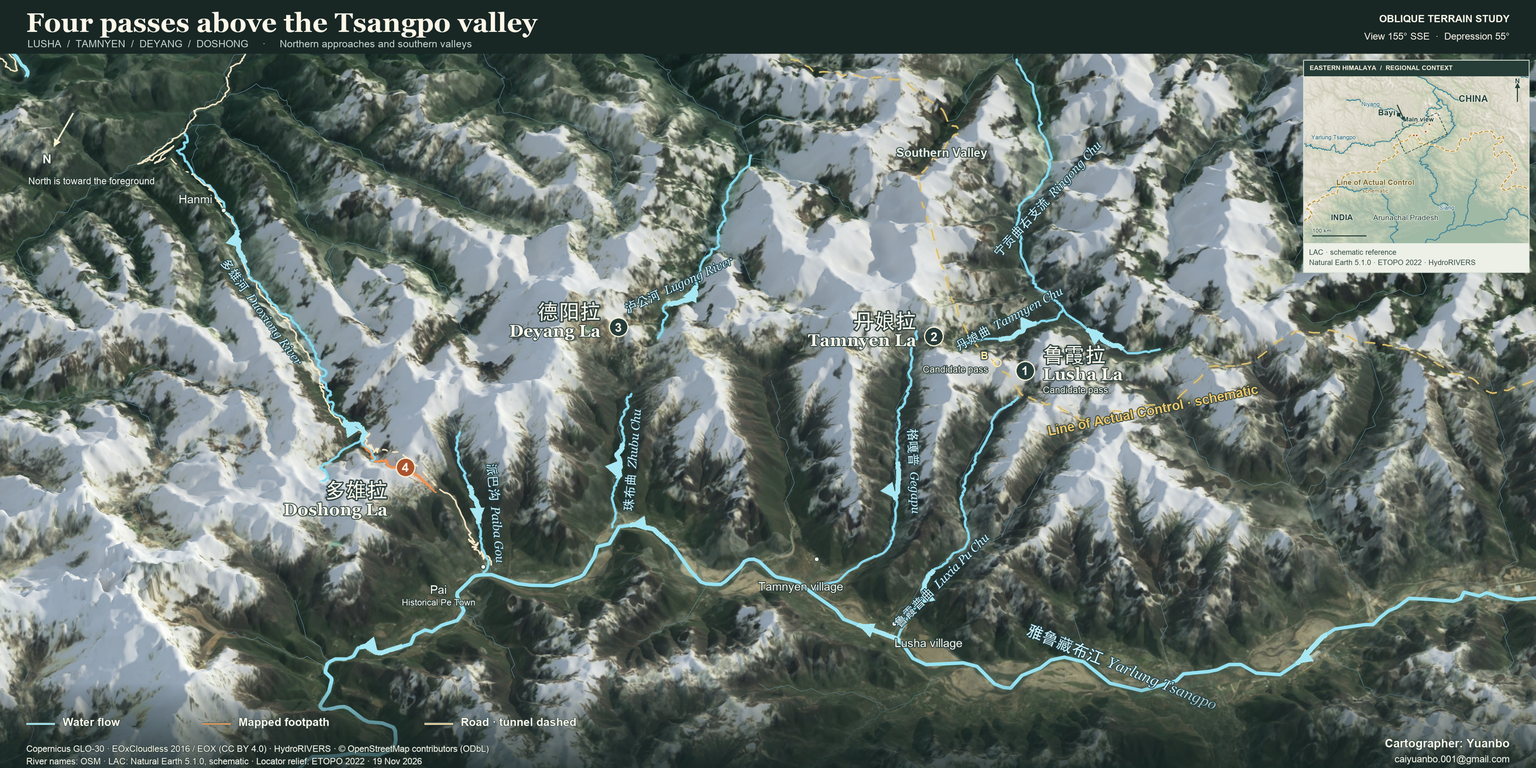
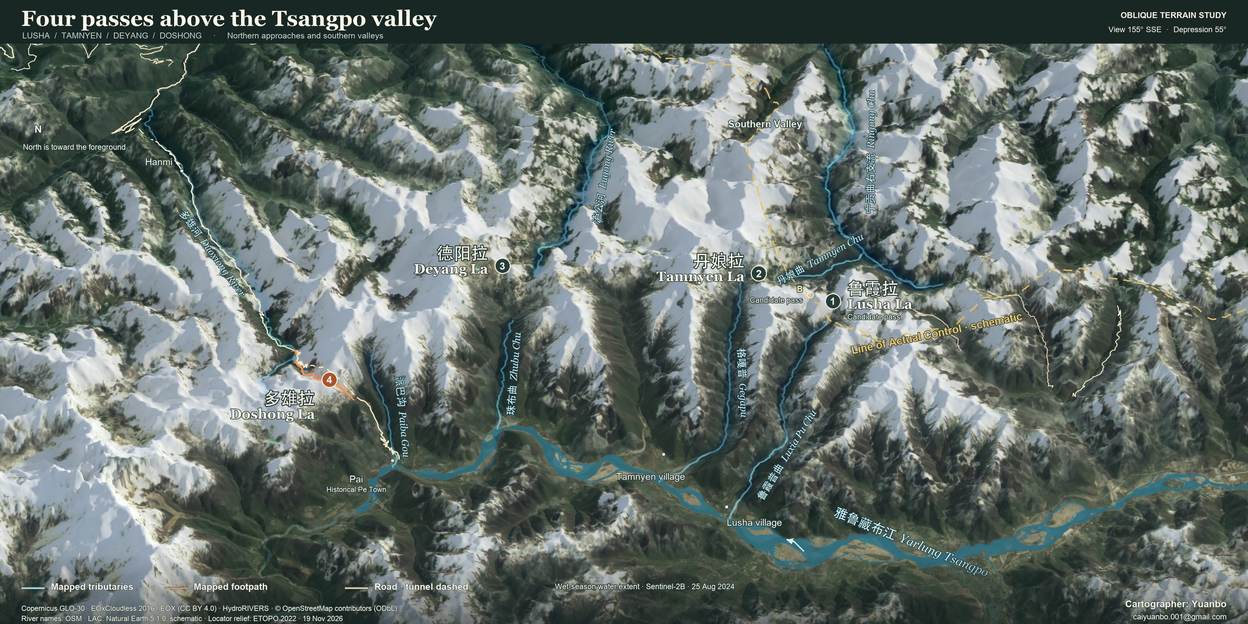
Show full terrain maps and open final locator editions in the lightbox

diff --git a/across-the-divide.html b/across-the-divide.html
@@ -3,7 +3,7 @@
 <body class="divide"><a class="skip" href="#main">Skip to maps</a>
 <header class="site-header"><a class="wordmark" href="index.html">Zhiting Cai <span>Cartography &amp; historical GIS</span></a><nav aria-label="Project"><a href="index.html">All projects</a><a href="corridors.html">Corridors before Borders</a></nav></header>
 <main id="main">
-<section class="divide-hero"><div class="hero-copy"><p class="eyebrow">Terrain cartography · Eastern Himalaya</p><h1>Across the <em>Divide</em></h1><p class="hero-premise">Cross a mountain pass. Enter another river basin. Find more than you came looking for.</p><a class="section-link" href="#yongyap">Read the crossing</a></div><figure><a href="assets/divide/yongyap-la-full.png?v=20261119-maptext" data-lightbox data-caption="Yongyap La: A Pass between the Dibang and Tsangpo Basins. Route digitized from the georeferenced 1913 route map (published 1914); local stream colours distinguish drainage toward the Dibang and the Tsangpo. Relief: 1.24×."><img src="assets/divide/yongyap-la-hero.jpg?v=20261119-maptext" width="2240" height="1552" fetchpriority="high" alt="Yongyap La in an oblique satellite-textured terrain view, with an orange historical route crossing a ridge between turquoise Dibang tributaries and blue Tsangpo tributaries."></a><figcaption>Yongyap La · Dibang–Tsangpo crossing · 26 May 1913<br>Open the complete map · Cartography: Yuanbo · EOX / Copernicus Sentinel 2016, CC BY 4.0</figcaption></figure></section>
+<section class="divide-hero"><div class="hero-copy"><p class="eyebrow">Terrain cartography · Eastern Himalaya</p><h1>Across the <em>Divide</em></h1><p class="hero-premise">Cross a mountain pass. Enter another river basin. Find more than you came looking for.</p><a class="section-link" href="#yongyap">Read the crossing</a></div><figure><a href="assets/divide/yongyap-la-full.png?v=20261121-final" data-lightbox data-caption="Yongyap La: A Pass between the Dibang and Tsangpo Basins. Route digitized from the georeferenced 1913 route map (published 1914); local stream colours distinguish drainage toward the Dibang and the Tsangpo. Relief: 1.24×."><img src="assets/divide/yongyap-la.jpg?v=20261121-final" width="2600" height="2112" fetchpriority="high" alt="Yongyap La in an oblique satellite-textured terrain view, with an orange historical route crossing a ridge between turquoise Dibang tributaries and blue Tsangpo tributaries."></a><figcaption>Yongyap La · Dibang–Tsangpo crossing · 26 May 1913<br>Open the complete map · Cartography: Yuanbo · EOX / Copernicus Sentinel 2016, CC BY 4.0</figcaption></figure></section>
 <nav class="divide-index" aria-label="On this page"><details open><summary>On this page</summary><ol><li><a href="#monsoonal-asia">Monsoonal Asia</a></li><li><a href="#yongyap">Routes &amp; Passes</a></li><li><a href="#serendipity">Travel Accounts</a></li><li><a href="#four-passes">Map 2: Sino–Indian Frontier</a></li><li><a href="#craft">Cartographic Practice</a></li></ol></details></nav>
 <section id="monsoonal-asia" class="reading section-space argument-section"><p class="eyebrow">Monsoonal Asia / ecological thresholds</p><h2>Monsoonal Asia <br>reaches into the mountains.</h2><p class="argument-lead">I approach the southeastern Himalaya as a mountainous part of monsoonal Asia, where high elevation and seasonal snow coexist with a strong monsoon influence.</p><p>Moisture from the Indian Ocean, including the Bay of Bengal, reaches the region through the summer monsoon. Mountain relief intercepts and redistributes this moisture, while deep valleys channel humid air into the Tibetan Plateau. Research at Mêdog documents this pathway through the Yarlung Tsangpo Grand Canyon. Alongside altitude, slope exposure and seasonal snow, the uneven distribution of moisture helps produce pronounced ecological contrasts across forested slopes, alpine terrain and drier inner valleys. <a class="source-inline" href="#lit-monsoon">Li et al., 2022</a>.</p><p>A pass gives travellers a route through these environmental differences. By connecting valleys, passes allow ecological gradients to be experienced through movement: changes in vegetation and climate become perceptible along a journey. These transitions need not coincide precisely with a saddle or watershed.</p><div class="ward-evidence"><p class="evidence-heading">Kingdon Ward / Tulung La, 1935</p><blockquote><p>“After crossing the Tulung La, I left the forest region behind me and entered upon the dry treeless plateau.”</p><cite>F. Kingdon Ward, “Botanical and Geographical Explorations in Tibet, 1935,” published 1936, p. 386. <a href="#lit-ward1936">Source details</a>.</cite></blockquote><p>Near Jamiri, Ward also described an abrupt transition from pine and oak woodland to Assam rain forest without a visible barrier (p. 406). His observations locate ecological change both beyond a pass and elsewhere along a route. I read these passages as accounts of environmental differences encountered through travel, while distinguishing his 1935 itinerary from Bailey’s crossing of Yongyap La.</p></div></section>
 <section id="yongyap" class="reading section-space"><p class="eyebrow">Yongyap La / a crossing, then another climb</p><h2>Beyond the ridge,<br>the journey changes.</h2><p>While reading historical maps, I repeatedly encountered toponyms ending in <i>chu</i>, the Tibetan word for water or river. I use these names as starting points for tracing the valleys and routes of the eastern Himalaya. <a class="source-inline" href="#lit-chu">Tibetan geographical vocabulary</a>.</p><p class="hero-deck">I use elevation, satellite imagery and historical itineraries to make these transitions visible: a ridge separates the waters, while a pass connects the journeys.</p><blockquote><p>“here we crossed from the basin of the Dibang into that of the Dihang or Tsangpo”</p><cite>F. M. Bailey, “Exploration on the Tsangpo or Upper Brahmaputra,” <i>The Geographical Journal</i> 44(4), 1914, p. 343. <a href="#sources">Source details</a></cite></blockquote>
@@ -15,8 +15,8 @@
 <p>Bailey and Morshead decided to advance with the retreating snowline and wait below the pass for an opportunity. A lama meditating in a cave above Mipi, whose recovery from illness had been aided by the expedition’s doctor, offered to arrange fine weather for the intended crossing and for Pungpung La four days later. Morshead left Mipi on 15 May 1913; Bailey followed on 16 May.</p>
 <p class="account-label">Date check: 7 May marks the first day of the fourth Tibetan month in the calendar discussion on pp. 46–47; it is not the departure date. The distinction between a river connection and a traversable route is also explicit in Bailey’s 1914 account, p. 343. <a href="https://archive.org/details/no-passport-to-tibet/page/n47/mode/2up">Read the book scan</a>.</p></div></details></section>
 <section id="serendipity" class="reading section-space serendipity"><p class="eyebrow">Serendipity / finding more along the way</p><h2>More than we came<br>looking for.</h2><p>Serendipity is the perspective I bring to these maps: setting out to trace a crossing, then noticing an unexpected clearing, a flower, or a connection between places. A pass opens a route into another drainage system; the journey can disclose more than its original purpose. Bailey’s account offers two distinct moments through which to consider that experience.</p><div class="encounter-grid encounter-quotes"><article><p class="encounter-place">Yonggyap Da · 28 May 1913</p><blockquote><p>“Later in the year it must be a very beautiful spot.”</p><cite>Bailey, 1957, p. 60. <a href="https://archive.org/details/no-passport-to-tibet/page/n62/mode/1up">Read the scanned page</a>.</cite></blockquote></article><article><p class="encounter-place">Lunang (鲁朗) · 10 July 1913</p><blockquote><p>“Each day brought new discoveries, new sights, new marvels.”</p><cite>Bailey, 1957, p. 113. <a href="https://archive.org/details/no-passport-to-tibet/page/n117/mode/1up">Read the scanned page</a>.</cite></blockquote></article></div><details class="encounter-context"><summary>Read the travel accounts · Yonggyap Da and Lunang</summary><div><div class="encounter-grid"><article><p class="encounter-place">Beyond Yongyap La</p><h3>Yonggyap Da camp</h3><p class="encounter-date">28 May 1913 · <i>No Passport to Tibet</i>, p. 60</p><p>Two days after the crossing, Bailey describes a flat clearing at the confluence of the rivers he calls the Yonggyap and Rirung. He collected iris and other seed, noticed the remains of flowers, and imagined the place later in the season.</p><p class="encounter-note">This is an encounter in the valley beyond the pass, rather than a view from its summit. The description conveys an attentive pause within a difficult journey.</p></article><article><p class="encounter-place">A later episode near Lunang (鲁朗)</p><h3>The blue poppies</h3><p class="encounter-date">10 July 1913 · recalled in 1957, pp. 112–114</p><p>On the approach to Lunang, Bailey noticed blue poppies among alpine flowers. His diary recorded them briefly. Looking back on their later fame, he reflected on how much the expedition had encountered along the way:</p><p class="encounter-note">This episode belongs to Lunang, later in the expedition. It is not an observation made while crossing Yongyap La. The reflection was written retrospectively, rather than as an expression of his feelings at the moment of seeing the flower.</p></article></div><p class="interpretation-note">I use <i>serendipity</i> to describe this openness to finding more than one set out to find. It is my interpretation of the journey and a way of looking at the terrain, rather than a term Bailey uses in these passages or a claim that every pass marks a sharp ecological boundary. These were landscapes already known and travelled by local people; Bailey’s encounters were new to him.</p></div></details></section>
-<section id="four-passes" class="section-space wide-study"><div class="section-heading reading"><p class="eyebrow">Four passes / northern approaches and southern valleys</p><div class="four-pass-title-row"><h2>A continuous ridge.<br>Several ways across.</h2><p class="frontier-heading-note">Important passes on the China–India Frontier</p></div><p>The wider view compares Luxia La, Tamnyen La, Deyang La and Doshong La with the valleys on either side. An elevated camera keeps both flanks of the ridge in view; rivers and flow arrows help the eye follow each valley away from the crest.</p></div>
-<figure class="panorama"><a href="assets/divide/four-passes-full.png" data-lightbox data-caption="Four passes above the Tsangpo valley. Luxia A/B, Tamnyen and Deyang are candidate identifications; Doshong uses the preferred modern mapped location. The yellow LAC line is schematic. Orange lines show documented OSM paths."><img src="assets/divide/four-passes.jpg" width="3200" height="1600" loading="lazy" alt="Wide oblique terrain map of four passes above the Tsangpo valley, with Chinese and English labels, river names, downstream arrows, mapped paths, a schematic LAC and regional locator."></a><figcaption>Explore the wide map at full resolution. Luxia A/B, Tamnyen and Deyang retain candidate status; Doshong uses the preferred modern mapped location. Orange lines are recorded OSM paths. The LAC is a generalized reference.</figcaption></figure></section>
+<section id="four-passes" class="section-space wide-study"><div class="section-heading reading"><p class="eyebrow">Four passes / northern approaches and southern valleys</p><div class="four-pass-title-row"><h2>A continuous ridge.<br>Several ways across.</h2><p class="frontier-heading-note">Important passes on the China–India Frontier</p></div><p>The wider view compares Luxia La, Tamnyen La, Deyang La and Doshong La with the valleys on either side. An elevated camera keeps both flanks of the ridge in view; fine tributary lines lead away from the crest, and a single arrow marks the downstream direction of the Tsangpo.</p></div>
+<figure class="panorama"><a href="assets/divide/four-passes-full.png?v=20261121-final" data-lightbox data-caption="Four passes above the Tsangpo valley. Luxia A/B, Tamnyen and Deyang are candidate identifications; Doshong uses the preferred modern mapped location. The yellow LAC line is schematic. Orange lines show documented OSM paths."><img src="assets/divide/four-passes.jpg?v=20261121-final" width="3200" height="1600" loading="lazy" alt="Wide oblique terrain map of four passes above the Tsangpo valley, with Chinese and English labels, river names, a downstream arrow on the Tsangpo, mapped paths and a schematic LAC."></a><figcaption>Explore the wide map at full resolution. Luxia A/B, Tamnyen and Deyang retain candidate status; Doshong uses the preferred modern mapped location. Orange lines are recorded OSM paths. The LAC is a generalized reference.</figcaption></figure></section>
 <section id="passes-and-borders" class="reading section-space argument-section"><p class="eyebrow">Territorial power / from corridors to controlled crossings</p><h2>Mountain passes and <br>territorial boundaries.</h2><p class="argument-lead">A named pass provides an identifiable reference point for territorial claims. Where routes converge at a crossing, it can also become a site for regulating movement between valleys.</p><p>When surveys and boundary documents select ridgelines, watersheds and passes as territorial reference points, they give these features political meaning. Garrisons, checkpoints and permit systems can enforce claims by restricting passage or redirecting travel. Cartographic delineation and the control of access are distinct practices; their combination can turn a route through the mountains into a regulated crossing between jurisdictions.</p><p>Jawaharlal Nehru’s parliamentary statement of 15 February 1961 illustrates how a state could use topography to articulate a boundary claim. In explaining India’s position, he invoked the high Himalayan watershed and the location of Talu and Diphu passes. His statement documents India’s territorial reasoning at that time; it does not establish a mutually agreed boundary. <a class="source-inline" href="#lit-nehru1961">Nehru, 15 February 1961</a>.</p><div class="line-reading"><div><h3>Watershed</h3><p>A division of drainage.</p></div><div><h3>Corridor</h3><p>A connection sustained through travel and local arrangements.</p></div><div><h3>Border control</h3><p>A regime deciding who may cross, where and under what conditions.</p></div></div><p>Changes around Tsari show how border closure could reorganize an existing network. Campbell Cole records the interruption of trade and the Tsari Rongkor pilgrimage following the 1962 conflict and militarized closure. Salt previously obtained from Tibet was subsequently sourced from the Assam plains. Movement was therefore both curtailed and redirected. This evidence concerns a regional trade and pilgrimage network and does not locate checkpoints at the four candidate crossings mapped here. <a class="source-inline" href="#lit-cole2012">Campbell Cole, 2012, p. 20</a>.</p><p>Earlier travel also depended on political authority and permission. Ward waited for a permit before crossing Se La in 1935 (p. 385). The historical question is how national boundary claims and military administration reconfigured such arrangements, changing who could cross and under whose authority. A pass could remain a physical connection between valleys even as access through it was restricted.</p></section>
 <section id="craft" class="section-space craft"><div class="reading"><p class="eyebrow">The cartographic craft</p><h2>Light makes the ridge.<br>Colour keeps the valley.</h2><p>I treat lighting, relief and surface colour as part of the explanation. Their purpose is to help a reader follow the land from one drainage system to the next.</p></div>
 <div class="craft-grid"><article><h3>Light &amp; shadow</h3><p>Oblique light falls across the ridges, separating illuminated slopes from shaded faces. In the Yongyap view, a low southeast light and distance haze bring the foreground forward while easing the distant terrain back. The lighting is illustrative, rather than a reconstruction of the sun on the day of the expedition.</p></article><article><h3>Ridges &amp; saddles</h3><p>The camera looks across the crest while retaining both valley flanks. Modest vertical exaggeration—1.24× at Yongyap and 1.35× in the four-pass view—helps the ridgelines, incised streams and saddles read together. River colours and the dashed watershed in the Yongyap map make the drainage transition legible.</p></article><article><h3>Vegetation &amp; surface</h3><p>Satellite texture carries the forest and exposed ground across the terrain. Muted greens and controlled contrast keep wooded slopes from becoming a dark mass. In the four-pass map, 80% satellite colour is blended with 20% elevation tint; the green surface provides landscape context rather than a classified vegetation map.</p></article></div></section>

diff --git a/index.html b/index.html
@@ -34,7 +34,7 @@
     <figure><a href="yangtze.html"><img src="assets/yangtze-commodities.jpg?v=20261119-final" width="2200" height="1554" alt="Explore the reconstructed map of seven commodities across the Yangtze basin." loading="lazy"></a><figcaption>Seven commodities in the Yangtze basin, reconstructed from a 1935 map.</figcaption></figure>
     <a class="entry-link" href="yangtze.html">Compare the seven commodities ↗</a>
   </article>
-  <article class="divide-entry" id="across-the-divide-entry"><p class="eyebrow">03 / Terrain Cartography · Anthropology of Mobility · Border Studies</p><header class="divide-card-heading"><div><h2><a href="across-the-divide.html">Across the Divide</a></h2><p class="divide-card-deck">Why mountain passes matter in the eastern Himalaya.</p><p class="divide-card-focus">Deciphering valley–pass networks<br>through travel accounts and examining<br>how modern borders reshape movement.</p></div><div class="divide-card-meta"><p>Cartographic practice · GIS &amp; Blender</p><p>A visual extension of <a href="corridors.html"><em>Corridors before Borders</em></a></p></div></header><a href="across-the-divide.html" class="divide-card-image" aria-label="Explore Across the Divide"><img src="assets/divide/yongyap-la.jpg?v=20261119-maptext" width="2400" height="1950" loading="lazy" alt="Yongyap La: an orange route crosses a ridge between the Dibang and Tsangpo river basins in a satellite-textured oblique terrain view."></a><div class="atlas-reading"><p>Cross a mountain pass. Enter another river basin. Find more than you came looking for. Two terrain studies explore the connection—and the craft of making it visible through light, relief, vegetation and river networks.</p><a class="entry-link" href="across-the-divide.html">Explore the terrain studies</a></div></article>
+  <article class="divide-entry" id="across-the-divide-entry"><p class="eyebrow">03 / Terrain Cartography · Anthropology of Mobility · Border Studies</p><header class="divide-card-heading"><div><h2><a href="across-the-divide.html">Across the Divide</a></h2><p class="divide-card-deck">Why mountain passes matter in the eastern Himalaya.</p><p class="divide-card-focus">Deciphering valley–pass networks<br>through travel accounts and examining<br>how modern borders reshape movement.</p></div><div class="divide-card-meta"><p>Cartographic practice · GIS &amp; Blender</p><p>A visual extension of <a href="corridors.html"><em>Corridors before Borders</em></a></p></div></header><a href="assets/divide/yongyap-la-full.png?v=20261121-final" class="divide-card-image" data-lightbox data-caption="Yongyap La · Regional locator at upper right." aria-label="Enlarge Yongyap La with regional locator"><img src="assets/divide/yongyap-la.jpg?v=20261121-final" width="2600" height="2112" loading="lazy" alt="Yongyap La and the route between the Dibang and Tsangpo basins."></a><a href="assets/divide/four-passes-full.png?v=20261121-final" class="divide-card-image" data-lightbox data-caption="Four passes above the Tsangpo valley · Regional locator at upper right." aria-label="Enlarge Four passes above the Tsangpo valley with regional locator"><img src="assets/divide/four-passes.jpg?v=20261121-final" width="2600" height="1300" loading="lazy" alt="Four passes on the ridge above the Tsangpo valley, with northern approaches and southern tributaries."></a><div class="atlas-reading"><p>Cross a mountain pass. Enter another river basin. Find more than you came looking for. Two terrain studies explore the connection—and the craft of making it visible through light, relief, vegetation and river networks.</p><a class="entry-link" href="across-the-divide.html">Explore the terrain studies</a></div></article>
   <article class="course-directory" id="coursework-overview">
     <header>
       <p class="eyebrow">04 / Navigating GIS and Envisioning Information</p>
